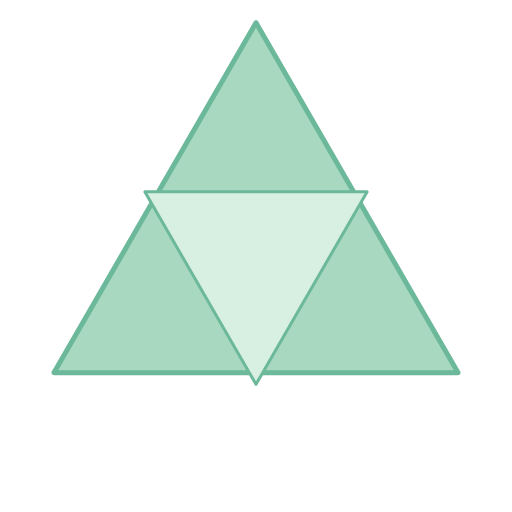
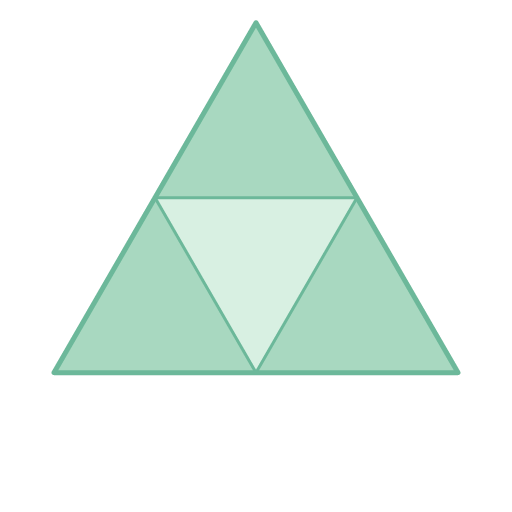
reorder

Changed region(s): [[0.2812, 0.3438, 0.7188, 0.75]]

diff --git a/docs/src/introduction.md b/docs/src/introduction.md
@@ -17,7 +17,7 @@ The full source code is available here on Github under an MIT license:
 
 ---
 
-Since it's a typechecker "zoo", and we aim to put the "fun" in functional, each one is going to have an animal mascot. The six little critters we're going to build are:
+Since it's a typechecker "zoo", and we aim to put the "fun" in functional, each one is going to have an animal mascot. The nine little critters we're going to build are:
 
 <div class="type-system-section">
 <a href="./algorithm-w/lambda-calculus.html">
@@ -31,13 +31,26 @@ Robin Milner's classic Hindley-Milner type inference algorithm from _A Theory of
 </div>
 
 <div class="type-system-section">
+<a href="./type-classes/overview.html">
+<img src="images/type-classes.png" alt="Type classes glyph" class="type-system-logo">
+</a>
+
+[**Type Classes**](./type-classes/overview.html) _(1698 lines of code)_
+
+Haskell-style type classes layered on Hindley-Milner, with superclasses, default methods, and dictionary-passing elaboration. A **qualified-type Mini-Haskell**.
+
+Follows the presentation from Mark Jones's _Typing Haskell in Haskell_.
+
+</div>
+
+<div class="type-system-section">
 <a href="./system-f/system-f.html">
 <img src="images/system-f.png" alt="System F glyph" class="type-system-logo">
 </a>
 
 [**System F**](./system-f/system-f.html) _(1090 lines of code)_
 
-Second-order lambda calculus with parametric polymorphism using bidirectional type checking. A **Mini-OCaml**
+Second-order lambda calculus with parametric polymorphism using bidirectional type checking. A **Mini-OCaml**.
 
 An implementation of DK algorithm from _Complete and Easy Bidirectional Typechecking for Higher-rank Polymorphism_ by Dunfield and Krishnaswami.
 
@@ -57,6 +70,19 @@ Uses the method of _A Mechanical Formalization of Higher-Ranked Polymorphic Type
 </div>
 
 <div class="type-system-section">
+<a href="./refinement/overview.html">
+<img src="images/refinement.png" alt="Refinement types glyph" class="type-system-logo">
+</a>
+
+[**Refinement Types**](./refinement/overview.html) _(1074 lines of code)_
+
+A refinement-typed lambda calculus that discharges subtyping obligations to Z3 via Rust FFI bindings. A **toy Liquid-types checker**.
+
+Inspired by the Liquid Types approach of Rondon, Kawaguchi, and Jhala, in the bidirectional style of Cosman and Jhala.
+
+</div>
+
+<div class="type-system-section">
 <a href="./coc/calculus-of-constructions.html">
 <img src="images/coc.png" alt="Calculus of Constructions glyph" class="type-system-logo">
 </a>
@@ -70,11 +96,11 @@ Uses a bidirectional dependent typechecker outlined in _A Universe Polymorphic T
 </div>
 
 <div class="type-system-section">
-<a href="./row-poly/row-polymorphism.html">
+<a href="./row-poly/overview.html">
 <img src="images/row-poly.png" alt="Row polymorphism glyph" class="type-system-logo">
 </a>
 
-[**Row Polymorphism**](./row-poly/row-polymorphism.html) _(782 lines of code)_
+[**Row Polymorphism**](./row-poly/overview.html) _(782 lines of code)_
 
 Extensible records with scoped labels, where duplicate labels are allowed and selection always picks the leftmost occurrence. A **structurally-typed record calculus**.
 
@@ -83,15 +109,28 @@ Implements a calculus of extensible records with scoped labels.
 </div>
 
 <div class="type-system-section">
-<a href="./row-effects/row-effects.html">
+<a href="./row-effects/overview.html">
 <img src="images/row-effects.png" alt="Row effects glyph" class="type-system-logo">
 </a>
 
-[**Row Effects**](./row-effects/row-effects.html) _(923 lines of code)_
+[**Row Effects**](./row-effects/overview.html) _(923 lines of code)_
 
 Algebraic effects and handlers built on the same scoped-label row machinery, with effect-annotated arrows and a syntactic value restriction. A **tiny effect calculus**.
 
 Follows a presentation of row-polymorphic effect types, with handlers in the style of Plotkin and Pretnar's _Handlers of Algebraic Effects_.
+
+</div>
+
+<div class="type-system-section">
+<a href="./cbpv/overview.html">
+<img src="images/cbpv.png" alt="Call-by-push-value glyph" class="type-system-logo">
+</a>
+
+[**Call-by-Push-Value**](./cbpv/overview.html) _(669 lines of code)_
+
+A lambda calculus that separates values from computations, subsuming both call-by-value and call-by-name under one bidirectional discipline. A **two-judgment value/computation calculus**.
+
+Based on Paul Blain Levy's _Call-by-Push-Value: A Functional/Imperative Synthesis_.
 
 </div>
 